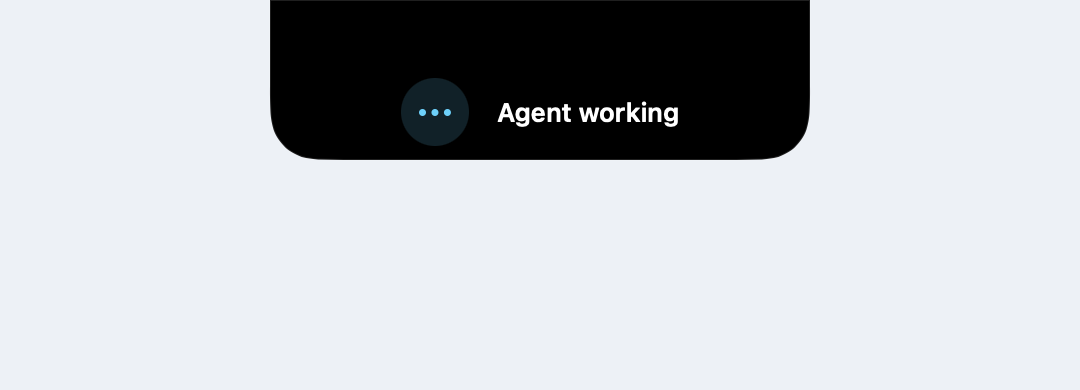
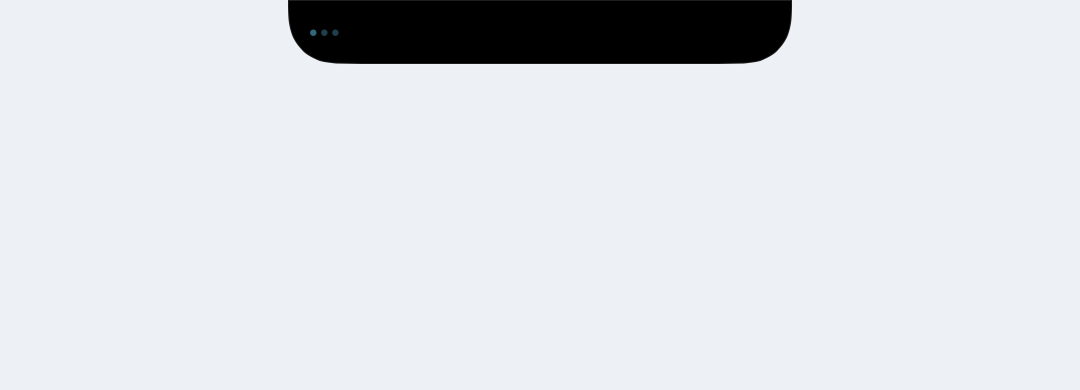
Keep working indicator beside notch without vertical expansion

Changed region(s): [[0.2444, 0.0, 0.7639, 0.4308]]

diff --git a/Sources/Views.swift b/Sources/Views.swift
@@ -18,60 +18,75 @@ struct IslandView: View {
 
     var body: some View {
         VStack(spacing: 0) {
-            VStack(spacing: 0) {
-                Color.clear.frame(height: model.notchHeight + (model.expanded ? 5 : 7))
-                if let notice = model.current {
-                    HStack(spacing: 14) {
-                        Image(systemName: notice.symbol)
-                            .font(.system(size: 17, weight: .semibold))
-                            .foregroundStyle(notice.tint)
-                            .frame(width: 34, height: 34)
-                            .background(notice.tint.opacity(0.16), in: Circle())
-                        VStack(alignment: .leading, spacing: 4) {
-                            Text(notice.label).font(.system(size: 13, weight: .semibold))
-                            if model.expanded {
-                                Text(model.title).font(.system(size: 13)).foregroundStyle(.white.opacity(0.78)).lineLimit(1)
-                            }
-                        }
-                        if model.expanded {
-                            Spacer(minLength: 0)
-                            Button(action: model.dismiss) {
-                                Image(systemName: "xmark").font(.system(size: 11, weight: .semibold)).frame(width: 28, height: 28)
-                            }
-                            .buttonStyle(.plain)
-                            .foregroundStyle(.white.opacity(0.7))
-                            .accessibilityLabel("Dismiss notification")
-                            .help("Dismiss notification; questions remain available in the menu")
-                        }
-                    }
-                    .padding(.horizontal, 20)
-                    if model.expanded {
-                        HStack {
-                            Text(model.pending.count > 1 ? "\(model.pending.count) pending requests" : "OpenCode · Ghostty")
-                                .font(.system(size: 11, weight: .medium)).foregroundStyle(.white.opacity(0.65))
-                            Spacer()
-                            Image(systemName: "arrow.up.right").font(.system(size: 11, weight: .semibold)).foregroundStyle(.white.opacity(0.8))
-                        }.padding(.horizontal, 22).padding(.top, 12)
-                    }
-                } else if model.expanded {
-                    HStack(spacing: 14) {
-                        Image(systemName: "capsule.inset.filled")
-                            .font(.system(size: 20, weight: .semibold))
+            ZStack(alignment: .top) {
+                if model.compactWorking {
+                    HStack(spacing: 0) {
+                        Image(systemName: "ellipsis")
+                            .font(.system(size: 15, weight: .bold))
                             .foregroundStyle(.cyan)
-                        VStack(alignment: .leading, spacing: 5) {
-                            Text("Dyland").font(.system(size: 14, weight: .semibold))
-                            Text(model.paused ? "Notifications paused" : model.connected ? "\(model.selected.count) sessions monitored" : "Waiting for OpenCode")
-                                .font(.system(size: 12)).foregroundStyle(.white.opacity(0.78))
-                        }
-                        Spacer()
-                        Image(systemName: "gearshape").foregroundStyle(.white.opacity(0.7))
+                            .symbolEffect(.variableColor.iterative, options: .repeating, isActive: !reduceMotion)
+                            .frame(width: 36, height: model.islandHeight)
+                        Color.clear.frame(width: model.notchWidth)
+                        Color.clear.frame(width: 36)
                     }
-                    .padding(.horizontal, 22)
-                    Text("Click for sessions and settings")
-                        .font(.system(size: 11)).foregroundStyle(.white.opacity(0.65))
-                        .padding(.top, 12)
+                    .accessibilityLabel("Agent working")
+                } else {
+                    VStack(spacing: 0) {
+                        Color.clear.frame(height: model.notchHeight + (model.expanded ? 5 : 7))
+                        if let notice = model.current {
+                            HStack(spacing: 14) {
+                                Image(systemName: notice.symbol)
+                                    .font(.system(size: 17, weight: .semibold))
+                                    .foregroundStyle(notice.tint)
+                                    .frame(width: 34, height: 34)
+                                    .background(notice.tint.opacity(0.16), in: Circle())
+                                VStack(alignment: .leading, spacing: 4) {
+                                    Text(notice.label).font(.system(size: 13, weight: .semibold))
+                                    if model.expanded {
+                                        Text(model.title).font(.system(size: 13)).foregroundStyle(.white.opacity(0.78)).lineLimit(1)
+                                    }
+                                }
+                                if model.expanded {
+                                    Spacer(minLength: 0)
+                                    Button(action: model.dismiss) {
+                                        Image(systemName: "xmark").font(.system(size: 11, weight: .semibold)).frame(width: 28, height: 28)
+                                    }
+                                    .buttonStyle(.plain)
+                                    .foregroundStyle(.white.opacity(0.7))
+                                    .accessibilityLabel("Dismiss notification")
+                                    .help("Dismiss notification; questions remain available in the menu")
+                                }
+                            }
+                            .padding(.horizontal, 20)
+                            if model.expanded {
+                                HStack {
+                                    Text(model.pending.count > 1 ? "\(model.pending.count) pending requests" : "OpenCode · Ghostty")
+                                        .font(.system(size: 11, weight: .medium)).foregroundStyle(.white.opacity(0.65))
+                                    Spacer()
+                                    Image(systemName: "arrow.up.right").font(.system(size: 11, weight: .semibold)).foregroundStyle(.white.opacity(0.8))
+                                }.padding(.horizontal, 22).padding(.top, 12)
+                            }
+                        } else if model.expanded {
+                            HStack(spacing: 14) {
+                                Image(systemName: "capsule.inset.filled")
+                                    .font(.system(size: 20, weight: .semibold))
+                                    .foregroundStyle(.cyan)
+                                VStack(alignment: .leading, spacing: 5) {
+                                    Text("Dyland").font(.system(size: 14, weight: .semibold))
+                                    Text(model.paused ? "Notifications paused" : model.connected ? "\(model.selected.count) sessions monitored" : "Waiting for OpenCode")
+                                        .font(.system(size: 12)).foregroundStyle(.white.opacity(0.78))
+                                }
+                                Spacer()
+                                Image(systemName: "gearshape").foregroundStyle(.white.opacity(0.7))
+                            }
+                            .padding(.horizontal, 22)
+                            Text("Click for sessions and settings")
+                                .font(.system(size: 11)).foregroundStyle(.white.opacity(0.65))
+                                .padding(.top, 12)
+                        }
+                        Spacer(minLength: 0)
+                    }
                 }
-                Spacer(minLength: 0)
             }
             .frame(width: model.islandWidth, height: model.islandHeight, alignment: .top)
             .clipped()

diff --git a/Sources/Bridge.swift b/Sources/Bridge.swift
@@ -141,8 +141,18 @@ func selfCheck() {
     precondition(model.expanded && model.islandWidth == 440)
     model.setHovered(false)
     precondition(!model.expanded)
+    model.current = Notice(id: "working-layout", sessionID: "ses_test", kind: "working", timestamp: now)
+    precondition(model.compactWorking && model.islandHeight == model.notchHeight)
+    precondition(model.islandWidth == model.notchWidth + 72)
+    model.setHovered(true)
+    precondition(!model.compactWorking && model.expanded && model.islandHeight == model.notchHeight + 100)
+    model.setHovered(false)
+    precondition(model.compactWorking)
+    model.notchHeight = 8
+    precondition(model.islandHeight == 28)
+    model.notchHeight = 32
     model.preview()
-    precondition(model.expanded)
+    precondition(!model.compactWorking && model.expanded)
     model.updateExpansion(now: now + 4)
     precondition(!model.expanded && model.current != nil)
     model.setHovered(true)

diff --git a/Sources/Model.swift b/Sources/Model.swift
@@ -42,8 +42,9 @@ final class Model: ObservableObject {
     }
 
     var expanded: Bool { hovered || (current != nil && autoExpanded) }
-    var islandWidth: CGFloat { expanded ? max(440, notchWidth) : current == nil ? notchWidth : max(270, notchWidth) }
-    var islandHeight: CGFloat { notchHeight + (expanded ? 100 : current == nil ? 0 : 48) }
+    var compactWorking: Bool { current?.kind == "working" && !expanded }
+    var islandWidth: CGFloat { expanded ? max(440, notchWidth) : compactWorking ? notchWidth + 72 : current == nil ? notchWidth : max(270, notchWidth) }
+    var islandHeight: CGFloat { compactWorking ? max(notchHeight, 28) : notchHeight + (expanded ? 100 : current == nil ? 0 : 48) }
     func setHovered(_ inside: Bool) {
         guard hovered != inside else { return }
         hovered = inside

diff --git a/Sources/App.swift b/Sources/App.swift
@@ -110,7 +110,7 @@ final class AppDelegate: NSObject, NSApplicationDelegate {
             centerX = (left.maxX + right.minX) / 2
             model.notchWidth = max(180, right.minX - left.maxX)
         }
-        let width = max(480, model.notchWidth + 40)
+        let width = max(480, model.notchWidth + 112)
         panel.setFrame(NSRect(x: centerX - width / 2, y: screen.frame.maxY - 190 - topInset, width: width, height: 190), display: true)
     }
     private func updateHitRegion() {

diff --git a/README.md b/README.md
@@ -26,7 +26,7 @@ Screenshots use the real SwiftUI views with demo session data, not private OpenC
 - Blend into a display notch, or use the top center of a display without one.
 - Use native settings, optional launch at login, and animations that respect Reduce Motion.
 
-![Centered compact working status](docs/screenshots/compact.png)
+![Compact working indicator beside the notch](docs/screenshots/compact.png)
 
 ![Dyland session selection and settings window](docs/screenshots/settings.png)
 
@@ -118,7 +118,8 @@ Sounds are limited to one every two seconds.
 
 New attention notifications expand for three seconds, then become compact unless hovered over.
 Regular notifications expire after seven seconds; hovering keeps them visible.
-Working status remains compact while execution is active.
+While execution is active, the compact island widens horizontally and shows a small animated indicator to the left of the notch, without a panel below it.
+Hover still expands the usual details, and clicking still opens the session in Ghostty.
 Questions and permission requests stay available while pending, including when compact.
 Dismissing the island hides that notification; it does not answer a question or grant permission.
 Dismissed pending requests remain accessible through the menu and session list.
